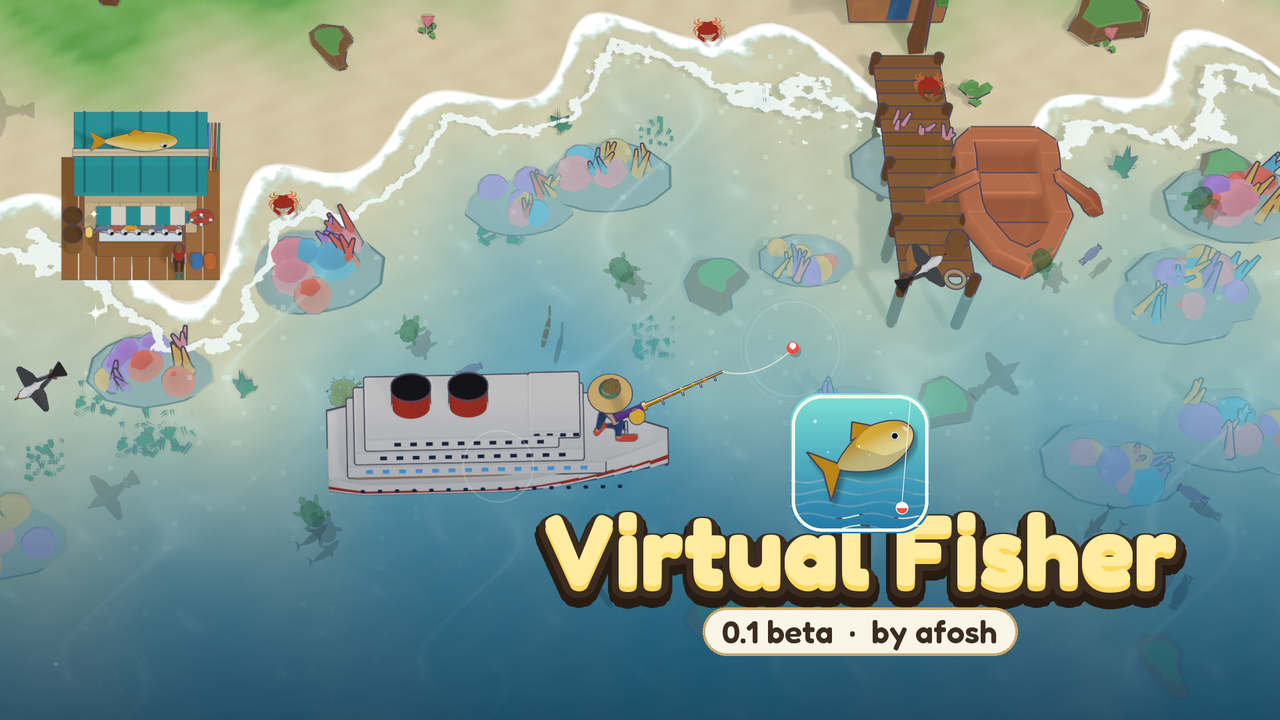
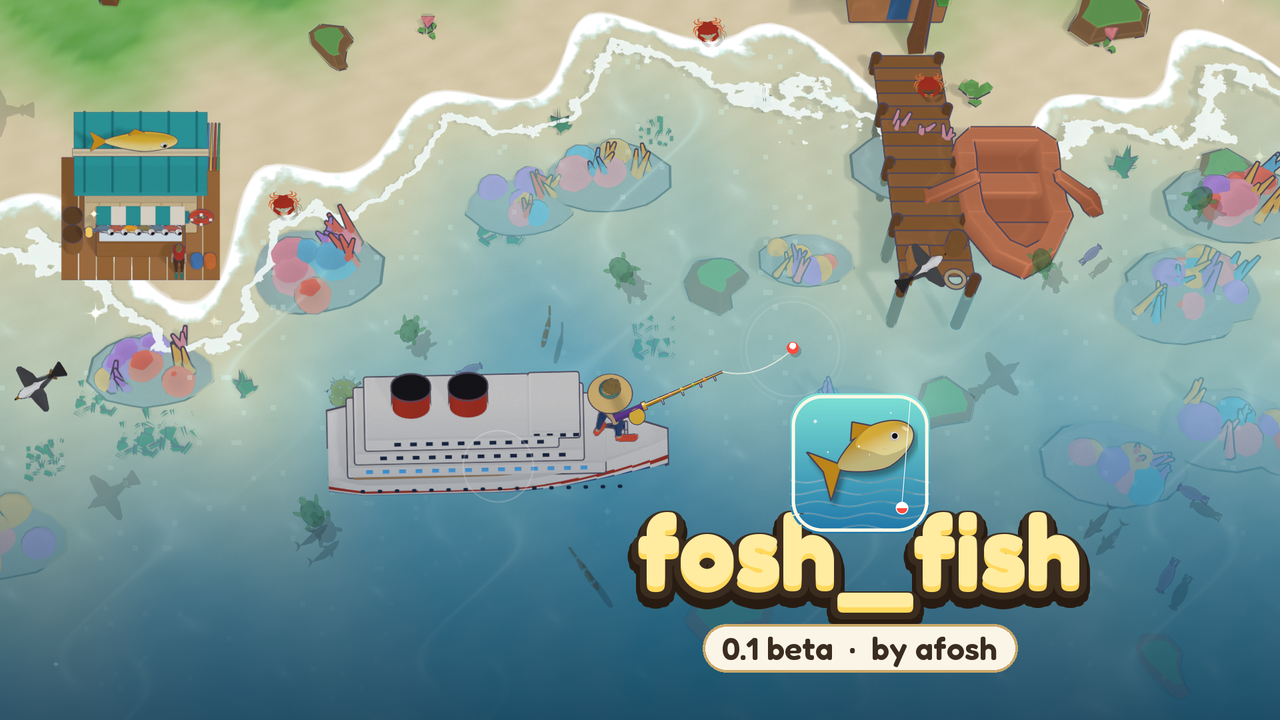
rename the game to fosh_fish (title, builds, brand art, docs); desktop saves carry over from the old folder

Changed region(s): [[0.4062, 0.7028, 0.9375, 0.9472]]

diff --git a/tools/serve_web.py b/tools/serve_web.py
@@ -40,7 +40,7 @@ def lan_ip():
 if __name__ == "__main__":
     socketserver.TCPServer.allow_reuse_address = True
     with socketserver.ThreadingTCPServer(("0.0.0.0", PORT), Handler) as httpd:
-        print("Virtual Fisher web build:")
+        print("fosh_fish web build:")
         print("  this PC : http://localhost:%d" % PORT)
         print("  phone   : http://%s:%d  (same Wi-Fi)" % (lan_ip(), PORT))
         httpd.serve_forever()

diff --git a/README.md b/README.md
@@ -1,11 +1,11 @@
-# 🐟 Virtual Fisher (Godot 4 + Blender)
+# 🐟 fosh_fish (Godot 4 + Blender)
 
-![Virtual Fisher](assets/brand/cover_1280x720.png)
+![fosh_fish](assets/brand/cover_1280x720.png)
 
 **Made by afosh** — [LinkedIn](https://www.linkedin.com/in/mostafa-kamal-3731453a9/) · [GitHub](https://github.com/iiafosh)
 
 
-A desktop fishing game built on the real **Virtual Fisher** Discord bot mechanics, with all art
+**fosh_fish** — a fishing game built on the real **Virtual Fisher** Discord bot mechanics, with all art
 rendered procedurally in **Blender**: high-angle biome scenes with see-through water (one shared
 height function drives the terrain mesh and the water's depth colour/foam), a straw-hat fisherman
 on each of the 17 boats, and fish that swim under the surface in-game with caustics on top.
@@ -14,8 +14,8 @@ their licenses in [CREDITS.md](CREDITS.md); fetch the raw packs with `python too
 
 ## Play the 0.1 beta
 
-- Download from [Releases](https://github.com/iiafosh/vfish.fosh/releases): **Windows** `…-windows.zip` (run `VirtualFisher.exe`), **Linux** `…-linux.tar.gz` (run `./VirtualFisher.x86_64`), **Android** `…-android.apk` (install on the phone).
-- **Browser / phone:** upload `VirtualFisher-0.1-beta-web.zip` to itch.io (HTML game) or serve `build/web/`.
+- Download from [Releases](https://github.com/iiafosh/vfish.fosh/releases): **Windows** `…-windows.zip` (run `fosh_fish.exe`), **Linux** `…-linux.tar.gz` (run `./fosh_fish.x86_64`), **Android** `…-android.apk` (install on the phone).
+- **Browser / phone:** upload `fosh_fish-0.1-beta-web.zip` to itch.io (HTML game) or serve `build/web/`.
 - **How to play:** [GUIDE.md](GUIDE.md) or press **G** in-game.  **Feedback:** Guide → Feedback in-game, or [open an issue](https://github.com/iiafosh/vfish.fosh/issues/new/choose).
 - What's in it: [CHANGELOG.md](CHANGELOG.md)
 
@@ -30,11 +30,11 @@ or `Godot.exe --path .` (Godot 4.7). Controls: **Space/F** or tap/click the wate
 
 | Platform | How |
 |---|---|
-| **Desktop (Windows)** | `Godot_console.exe --headless --path . --export-release "Windows Desktop" build/windows/VirtualFisher.exe` |
+| **Desktop (Windows)** | `Godot_console.exe --headless --path . --export-release "Windows Desktop" build/windows/fosh_fish.exe` |
 | **Web** | `Godot_console.exe --headless --path . --export-release "Web" build/web/index.html`, then `python tools/serve_web.py` (or upload `build/web/` to itch.io / GitHub Pages) |
 | **Mobile** | Open the web build on your phone (same Wi-Fi: the URL printed by `serve_web.py`) and use *Add to Home Screen* — it installs as a full-screen landscape app (PWA). Tap the water to cast. |
 
-Saves are kept per device (desktop: `%APPDATA%/Godot/app_userdata/Virtual Fisher`, web/mobile: browser storage).
+Saves are kept per device (desktop: `%APPDATA%/Godot/app_userdata/fosh_fish`, web/mobile: browser storage).
 
 ## What's in the game
 

diff --git a/GUIDE.md b/GUIDE.md
@@ -1,4 +1,4 @@
-# Virtual Fisher — Player Guide (v0.1 beta)
+# fosh_fish — Player Guide (v0.1 beta)
 
 **Made by afosh** — [LinkedIn](https://www.linkedin.com/in/mostafa-kamal-3731453a9/) · [GitHub](https://github.com/iiafosh)
 
@@ -128,9 +128,9 @@ community buy order for P1–P160 (your current prestige is highlighted). First 
 ---
 
 ## 6. Platforms & saves
-- **Windows:** unzip and run `VirtualFisher.exe` (no install needed). If Windows SmartScreen warns, click *More info → Run anyway* (the beta isn't code-signed).
-- **Linux:** extract the `.tar.gz` and run `./VirtualFisher.x86_64`.
-- **Android:** copy `VirtualFisher-0.1-beta-android.apk` to the phone, open it and allow *Install unknown apps* when asked. Android 7.0 or newer.
+- **Windows:** unzip and run `fosh_fish.exe` (no install needed). If Windows SmartScreen warns, click *More info → Run anyway* (the beta isn't code-signed).
+- **Linux:** extract the `.tar.gz` and run `./fosh_fish.x86_64`.
+- **Android:** copy `fosh_fish-0.1-beta-android.apk` to the phone, open it and allow *Install unknown apps* when asked. Android 7.0 or newer.
 - **Browser:** open the web version; on iPhone/iPad use it in Safari and *Add to Home Screen*.
 - The game **autosaves** every 20 seconds and when you close it. Each device/browser has its own save.
   **Buffs → Reset save…** wipes progress (asks twice).

diff --git a/CHANGELOG.md b/CHANGELOG.md
@@ -1,6 +1,6 @@
 # Changelog
 
-![Virtual Fisher](https://raw.githubusercontent.com/iiafosh/vfish.fosh/master/assets/brand/cover_1280x720.png)
+![fosh_fish](https://raw.githubusercontent.com/iiafosh/vfish.fosh/master/assets/brand/cover_1280x720.png)
 
 ## 0.1 beta — first public test
 
@@ -9,7 +9,7 @@
 Play in the browser: https://iiafosh.github.io/vfish.fosh/
 
 **Game**
-- Full Virtual Fisher progression: 20 fish, 21 rods, 17 boats, 8 baits, 7 biomes (River → Abyss),
+- Full Virtual Fisher (Discord bot) progression: 20 fish, 21 rods, 17 boats, 8 baits, 7 biomes (River → Abyss),
   the real 25,000-level XP table, per-rod catch odds and fish-quality rules from the wiki.
 - Chests (Common → Artifact, Super), Gold / Emerald / Lava / Diamond fish, 8 charms, 5 pets.
 - Shop, special and league upgrades; Fish / Treasure boosts and Workers; daily reward, daily quests,
